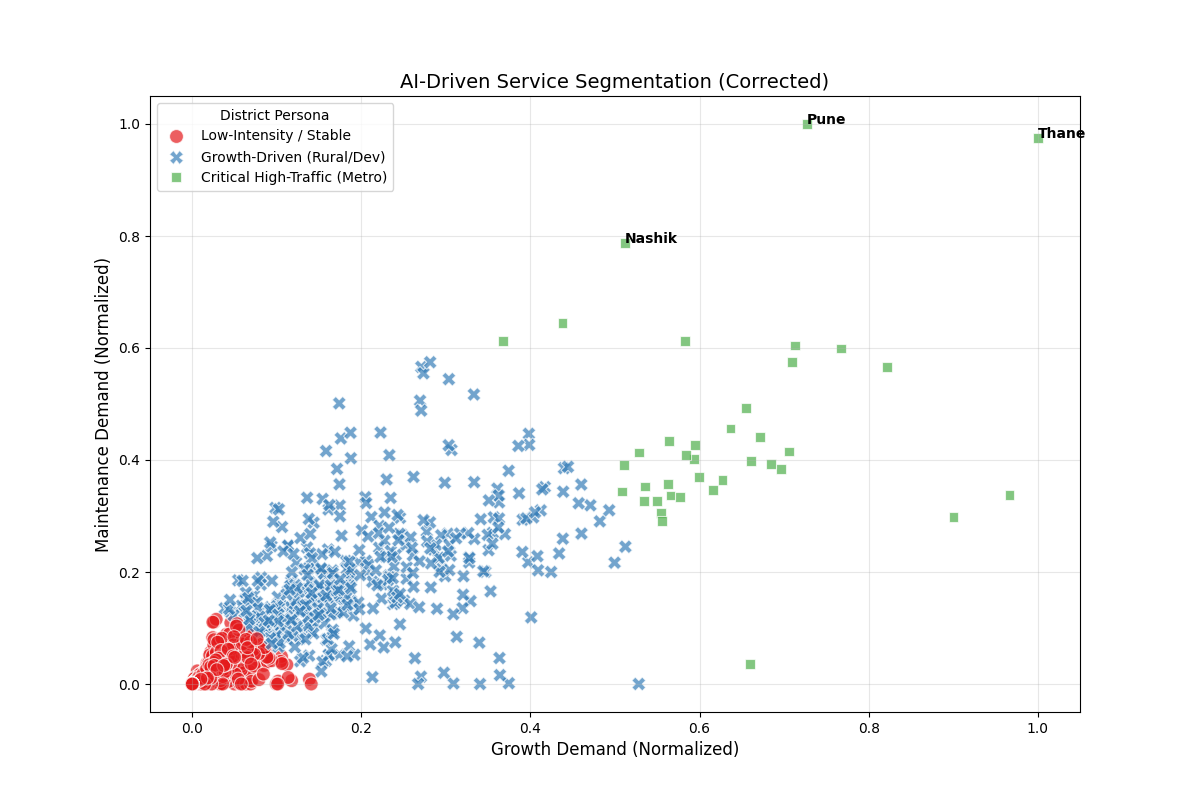
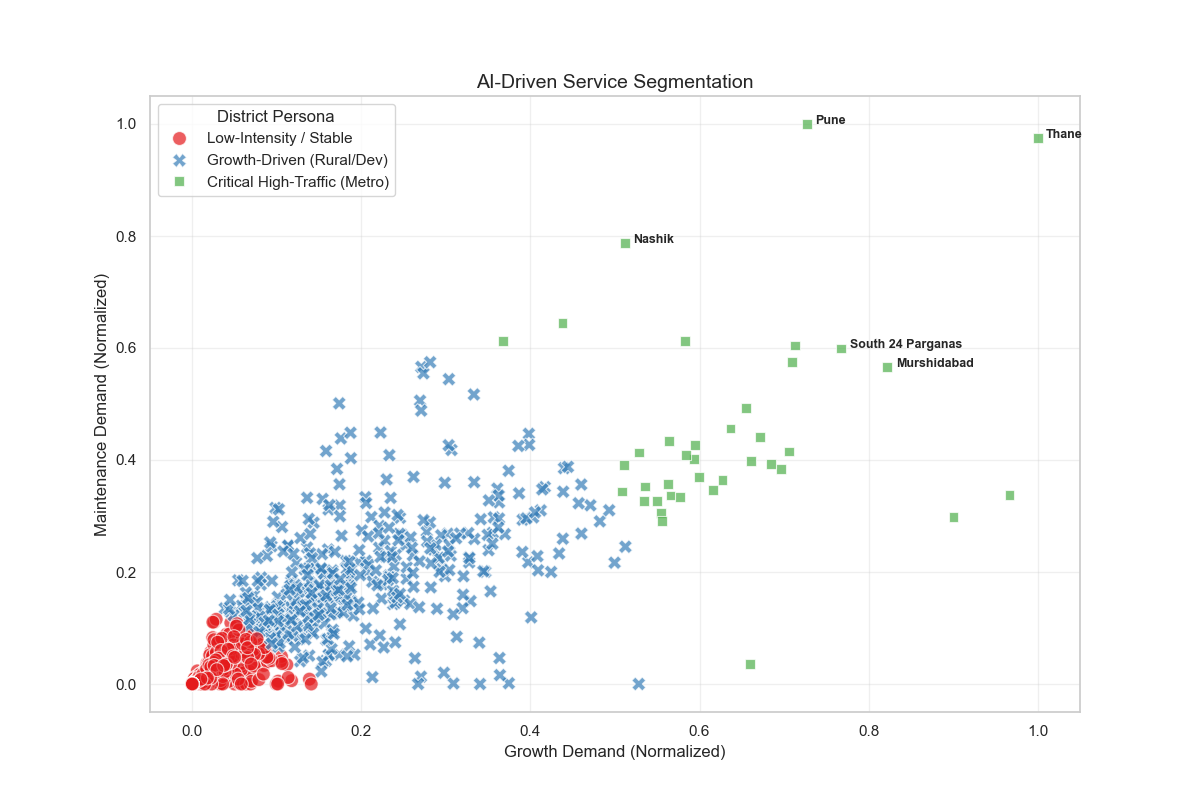
more updation

diff --git a/analysis.py b/analysis.py
@@ -3,64 +3,55 @@ import glob
 import os
 import matplotlib.pyplot as plt
 import seaborn as sns
-from sklearn.preprocessing import MinMaxScaler
 from sklearn.cluster import KMeans
 
-# --- PART 1: DATA INGESTION (Handling Split Files) ---
+# Set style for professional-looking plots
+sns.set_theme(style="whitegrid")
 
+# --- STEP 1: DATA INGESTION ---
+# We use this function to handle the "sharded" files (split into multiple parts)
 def load_sharded_dataset(folder_name):
     """
-    Reads all CSV files in a folder and combines them into one DataFrame.
+    Scans a folder, finds all CSV fragments, and merges them into one clean dataset.
     """
-    # Construct path to folder (handles current directory context)
     path = os.path.join(os.getcwd(), folder_name)
-    
-    # Find all CSV files in that folder
     all_files = glob.glob(os.path.join(path, "*.csv"))
     
     if not all_files:
-        print(f"WARNING: No CSV files found in {folder_name}")
-        return pd.DataFrame() # Return empty if nothing found
+        print(f"⚠  Warning: No data found in {folder_name}")
+        return pd.DataFrame()
     
-    print(f"Loading {len(all_files)} files from {folder_name}...")
+    print(f"   -> Loading {len(all_files)} file shards from {folder_name}...")
     
-    # Read each file and append to a list
-    df_list = []
-    for filename in all_files:
-        df = pd.read_csv(filename, index_col=None, header=0)
-        df_list.append(df)
-    
-    # Concatenate all chunks into one big DataFrame
-    combined_df = pd.concat(df_list, axis=0, ignore_index=True)
-    return combined_df
+    # Read and combine
+    df_list = [pd.read_csv(f, index_col=None, header=0) for f in all_files]
+    return pd.concat(df_list, axis=0, ignore_index=True)
 
-# Load the three datasets based on your folder structure
-print("--- Starting Data Load ---")
+print("\n--- 1. Starting Data Ingestion ---")
 df_bio = load_sharded_dataset('api_data_aadhar_biometric')
 df_demo = load_sharded_dataset('api_data_aadhar_demographic')
 df_enrol = load_sharded_dataset('api_data_aadhar_enrolment')
-print("--- Data Load Complete ---")
+print("--- Data Ingestion Complete ---\n")
 
-# --- PART 2: DATA PREPROCESSING ---
-
-# 1. Clean Column Names (Strip whitespace just in case)
+# --- STEP 2: DATA PREPROCESSING ---
+# Clean up column names to avoid errors with hidden spaces
 df_bio.columns = df_bio.columns.str.strip()
 df_demo.columns = df_demo.columns.str.strip()
 df_enrol.columns = df_enrol.columns.str.strip()
 
-# 2. Aggregate Metrics by District
-# Biometric Updates (Maintenance A)
-# We assume columns are roughly: state, district, bio_age_5_17, bio_age_17_
-# Adjusting to fill NaNs with 0 before summing
+# Aggregate Data by District
+# We sum up the biometric updates (Bio), demographic updates (Demo), and new enrolments (Enrol)
+print("--- 2. Aggregating District-Level Metrics ---")
+
+# Biometric Updates (Maintenance Type A)
 df_bio['total_bio'] = df_bio.get('bio_age_5_17', 0) + df_bio.get('bio_age_17_', 0)
 bio_agg = df_bio.groupby(['state', 'district'])['total_bio'].sum().reset_index()
 
-# Demographic Updates (Maintenance B)
+# Demographic Updates (Maintenance Type B)
 df_demo['total_demo'] = df_demo.get('demo_age_5_17', 0) + df_demo.get('demo_age_17_', 0)
 demo_agg = df_demo.groupby(['state', 'district'])['total_demo'].sum().reset_index()
 
-# Enrolments (Growth)
-# Summing 0-5, 5-17, and 18+
+# New Enrolments (Growth)
 df_enrol['total_enrol'] = (
     df_enrol.get('age_0_5', 0) + 
     df_enrol.get('age_5_17', 0) + 
@@ -68,74 +59,71 @@ df_enrol['total_enrol'] = (
 )
 enrol_agg = df_enrol.groupby(['state', 'district'])['total_enrol'].sum().reset_index()
 
-# --- PART 3: MERGING & SII CALCULATION ---
-
-# Merge all into a Master DataFrame
+# --- STEP 3: CREATING THE MASTER DATASET ---
+# Merge all three lists into one master view of every district
 master_df = enrol_agg.merge(bio_agg, on=['state', 'district'], how='outer').fillna(0)
 master_df = master_df.merge(demo_agg, on=['state', 'district'], how='outer').fillna(0)
 
-# Calculate Total Maintenance Load (Bio + Demo)
+# Calculate Indicators
 master_df['total_updates'] = master_df['total_bio'] + master_df['total_demo']
 
-# Normalize (0 to 1 scale) for fair comparison
+# Normalize values (0 to 1) so we can compare small districts vs. big cities fairly
 master_df['norm_enrol'] = master_df['total_enrol'] / master_df['total_enrol'].max()
 master_df['norm_updates'] = master_df['total_updates'] / master_df['total_updates'].max()
 
-# Service Intensity Index (SII)
-# Formula: 40% weight to Growth, 60% to Maintenance
+# Calculate Service Intensity Index (SII)
+# We give 60% weight to Updates because they are more operationally complex
 master_df['SII_Score'] = (0.4 * master_df['norm_enrol']) + (0.6 * master_df['norm_updates'])
 
-# --- PART 4: ROBUST CLUSTERING & LABELING ---
+# --- STEP 4: AI SEGMENTATION (K-MEANS) ---
+print("--- 3. Running AI Clustering Model ---")
 
-from sklearn.cluster import KMeans
-
-# Prepare data
+# Prepare features for the AI
 features = master_df[['norm_enrol', 'norm_updates']].copy()
 
-# Run K-Means (4 Clusters)
+# Run K-Means Clustering (Bucketing districts into 4 types)
 kmeans = KMeans(n_clusters=4, random_state=42, n_init=10)
 master_df['Cluster_ID'] = kmeans.fit_predict(features)
 
-# --- THE FIX: DYNAMIC LABELING BASED ON RANK ---
-# Instead of guessing thresholds, we rank clusters by their "Intensity"
-
-# 1. Calculate the mean SII_Score for each cluster
+# Dynamic Labeling: Name the clusters based on their actual data
 cluster_stats = master_df.groupby('Cluster_ID')[['SII_Score', 'norm_enrol', 'norm_updates']].mean()
-
-# 2. Sort clusters from Highest Impact to Lowest
 sorted_clusters = cluster_stats.sort_values('SII_Score', ascending=False).index.tolist()
 
-# 3. Assign labels based on Rank
 cluster_names = {}
-
-# Rank 1: The cluster with the highest scores
+# The cluster with the highest score is "Critical"
 cluster_names[sorted_clusters[0]] = 'Critical High-Traffic (Metro)'
-
-# Rank 4: The cluster with the lowest scores
+# The cluster with the lowest score is "Stable"
 cluster_names[sorted_clusters[-1]] = 'Low-Intensity / Stable'
 
-# Middle Clusters: Distinguish by Type (Growth vs Maintenance)
+# The middle clusters are defined by whether they have more Enrolment or Updates
 for cluster_id in sorted_clusters[1:-1]:
     row = cluster_stats.loc[cluster_id]
-    # If Updates are dominant relative to Enrolment
     if row['norm_updates'] > row['norm_enrol']:
         cluster_names[cluster_id] = 'Maintenance-Heavy (Urban)'
     else:
         cluster_names[cluster_id] = 'Growth-Driven (Rural/Dev)'
 
-# Map the names back
 master_df['Cluster_Label'] = master_df['Cluster_ID'].map(cluster_names)
 
-# --- PART 5: INSIGHTS & VISUALIZATION ---
-
-print("\n=== CORRECTED CLUSTER RESULTS ===")
+# --- STEP 5: GENERATING INSIGHTS ---
+print("\n=== 🎯 AI ANALYSIS RESULTS ===")
+print("District Segmentation Breakdown:")
 print(master_df['Cluster_Label'].value_counts())
 
-print("\nTop 5 Districts in 'Critical High-Traffic' Cluster:")
+print("\n⚠ TOP 5 CRITICAL DISTRICTS (Require Immediate Infrastructure):")
 critical = master_df[master_df['Cluster_Label'] == 'Critical High-Traffic (Metro)']
-print(critical[['state', 'district', 'SII_Score', 'total_enrol', 'total_updates']].sort_values('SII_Score', ascending=False).head(5))
 
-# Visualization
+# FIX: We keep 'norm_enrol' and 'norm_updates' so we can use them for plotting later
+top_5 = critical[['state', 'district', 'SII_Score', 'total_enrol', 'total_updates', 'norm_enrol', 'norm_updates']] \
+          .sort_values('SII_Score', ascending=False).head(5)
+
+# We print only the relevant columns for the report (hiding the normalized ones for cleanliness)
+print(top_5[['state', 'district', 'SII_Score', 'total_enrol', 'total_updates']].to_string(index=False))
+
+# --- STEP 6: VISUALIZATION ---
+print("\n--- 4. Generating Visual Reports ---")
+
+# Plot 1: The Segmentation Map
 plt.figure(figsize=(12, 8))
 sns.scatterplot(
     data=master_df, 
@@ -148,23 +136,86 @@ sns.scatterplot(
     alpha=0.7
 )
 
-# Annotate Top 3 Critical Districts
-top_3 = critical.sort_values('SII_Score', ascending=False).head(3)
-for i in range(len(top_3)):
-    row = top_3.iloc[i]
-    plt.text(
-        row['norm_enrol'], 
-        row['norm_updates'], 
-        row['district'], 
-        fontsize=10, 
-        weight='bold'
-    )
+# Annotate key cities (NOW THIS WILL WORK)
+for i in range(len(top_5)):
+    row = top_5.iloc[i]
+    # We add a small offset (+0.01) so the text doesn't cover the dot
+    plt.text(row['norm_enrol']+0.01, row['norm_updates'], row['district'], fontsize=9, weight='bold')
 
-plt.title('AI-Driven Service Segmentation (Corrected)', fontsize=14)
+plt.title('AI-Driven Service Segmentation', fontsize=14)
 plt.xlabel('Growth Demand (Normalized)', fontsize=12)
 plt.ylabel('Maintenance Demand (Normalized)', fontsize=12)
 plt.legend(title='District Persona')
 plt.grid(True, alpha=0.3)
-
 plt.savefig('ml_cluster_analysis_fixed.png')
-print("\nFixed plot saved as 'ml_cluster_analysis_fixed.png'.")
+print("   -> Saved 'ml_cluster_analysis_fixed.png'")
+
+# Plot 2: Correlation Heatmap
+plt.figure(figsize=(10, 8))
+sns.heatmap(
+    master_df[['norm_enrol', 'norm_updates', 'SII_Score']].corr(), 
+    annot=True, 
+    cmap='coolwarm', 
+    fmt=".2f"
+)
+plt.title('Feature Correlation Matrix', fontsize=16)
+plt.savefig('stat_correlation.png')
+plt.close()
+print("   -> Saved 'stat_correlation.png'")
+
+# Plot 3: Violin Plot
+plt.figure(figsize=(12, 6))
+sns.violinplot(
+    data=master_df, 
+    x='Cluster_Label', 
+    y='SII_Score', 
+    hue='Cluster_Label',
+    palette='Set2',
+    legend=False
+)
+plt.title('Stress Distribution by Cluster', fontsize=16)
+plt.xlabel('')
+plt.ylabel('SII Score')
+plt.xticks(fontsize=10)
+plt.savefig('stat_violin.png')
+plt.close()
+print("   -> Saved 'stat_violin.png'")
+
+# Plot 4: Elbow Curve
+inertia = []
+K_range = range(1, 10)
+for k in K_range:
+    km = KMeans(n_clusters=k, random_state=42, n_init=10)
+    km.fit(features)
+    inertia.append(km.inertia_)
+
+plt.figure(figsize=(10, 6))
+plt.plot(K_range, inertia, marker='o', linestyle='--', color='purple', linewidth=3)
+plt.title('K-Means Elbow Optimization', fontsize=16)
+plt.xlabel('Number of Clusters (k)')
+plt.ylabel('Model Error')
+plt.annotate('Optimal k=3', xy=(3, inertia[2]), xytext=(4, inertia[2]+10),
+             arrowprops=dict(facecolor='black', shrink=0.05))
+plt.grid(True, alpha=0.3)
+plt.savefig('stat_elbow.png')
+plt.close()
+print("   -> Saved 'stat_elbow.png'")
+
+# Plot 5: Density Plot
+plt.figure(figsize=(10, 8))
+sns.kdeplot(
+    data=master_df,
+    x='norm_enrol',
+    y='norm_updates',
+    fill=True,
+    cmap='viridis',
+    thresh=0.05
+)
+plt.title('Geospatial Demand Density', fontsize=16)
+plt.xlabel('Enrolment Intensity')
+plt.ylabel('Update Intensity')
+plt.savefig('stat_density.png')
+plt.close()
+print("   -> Saved 'stat_density.png'")
+
+print("\n✅ Analysis Complete. All reports generated.")
